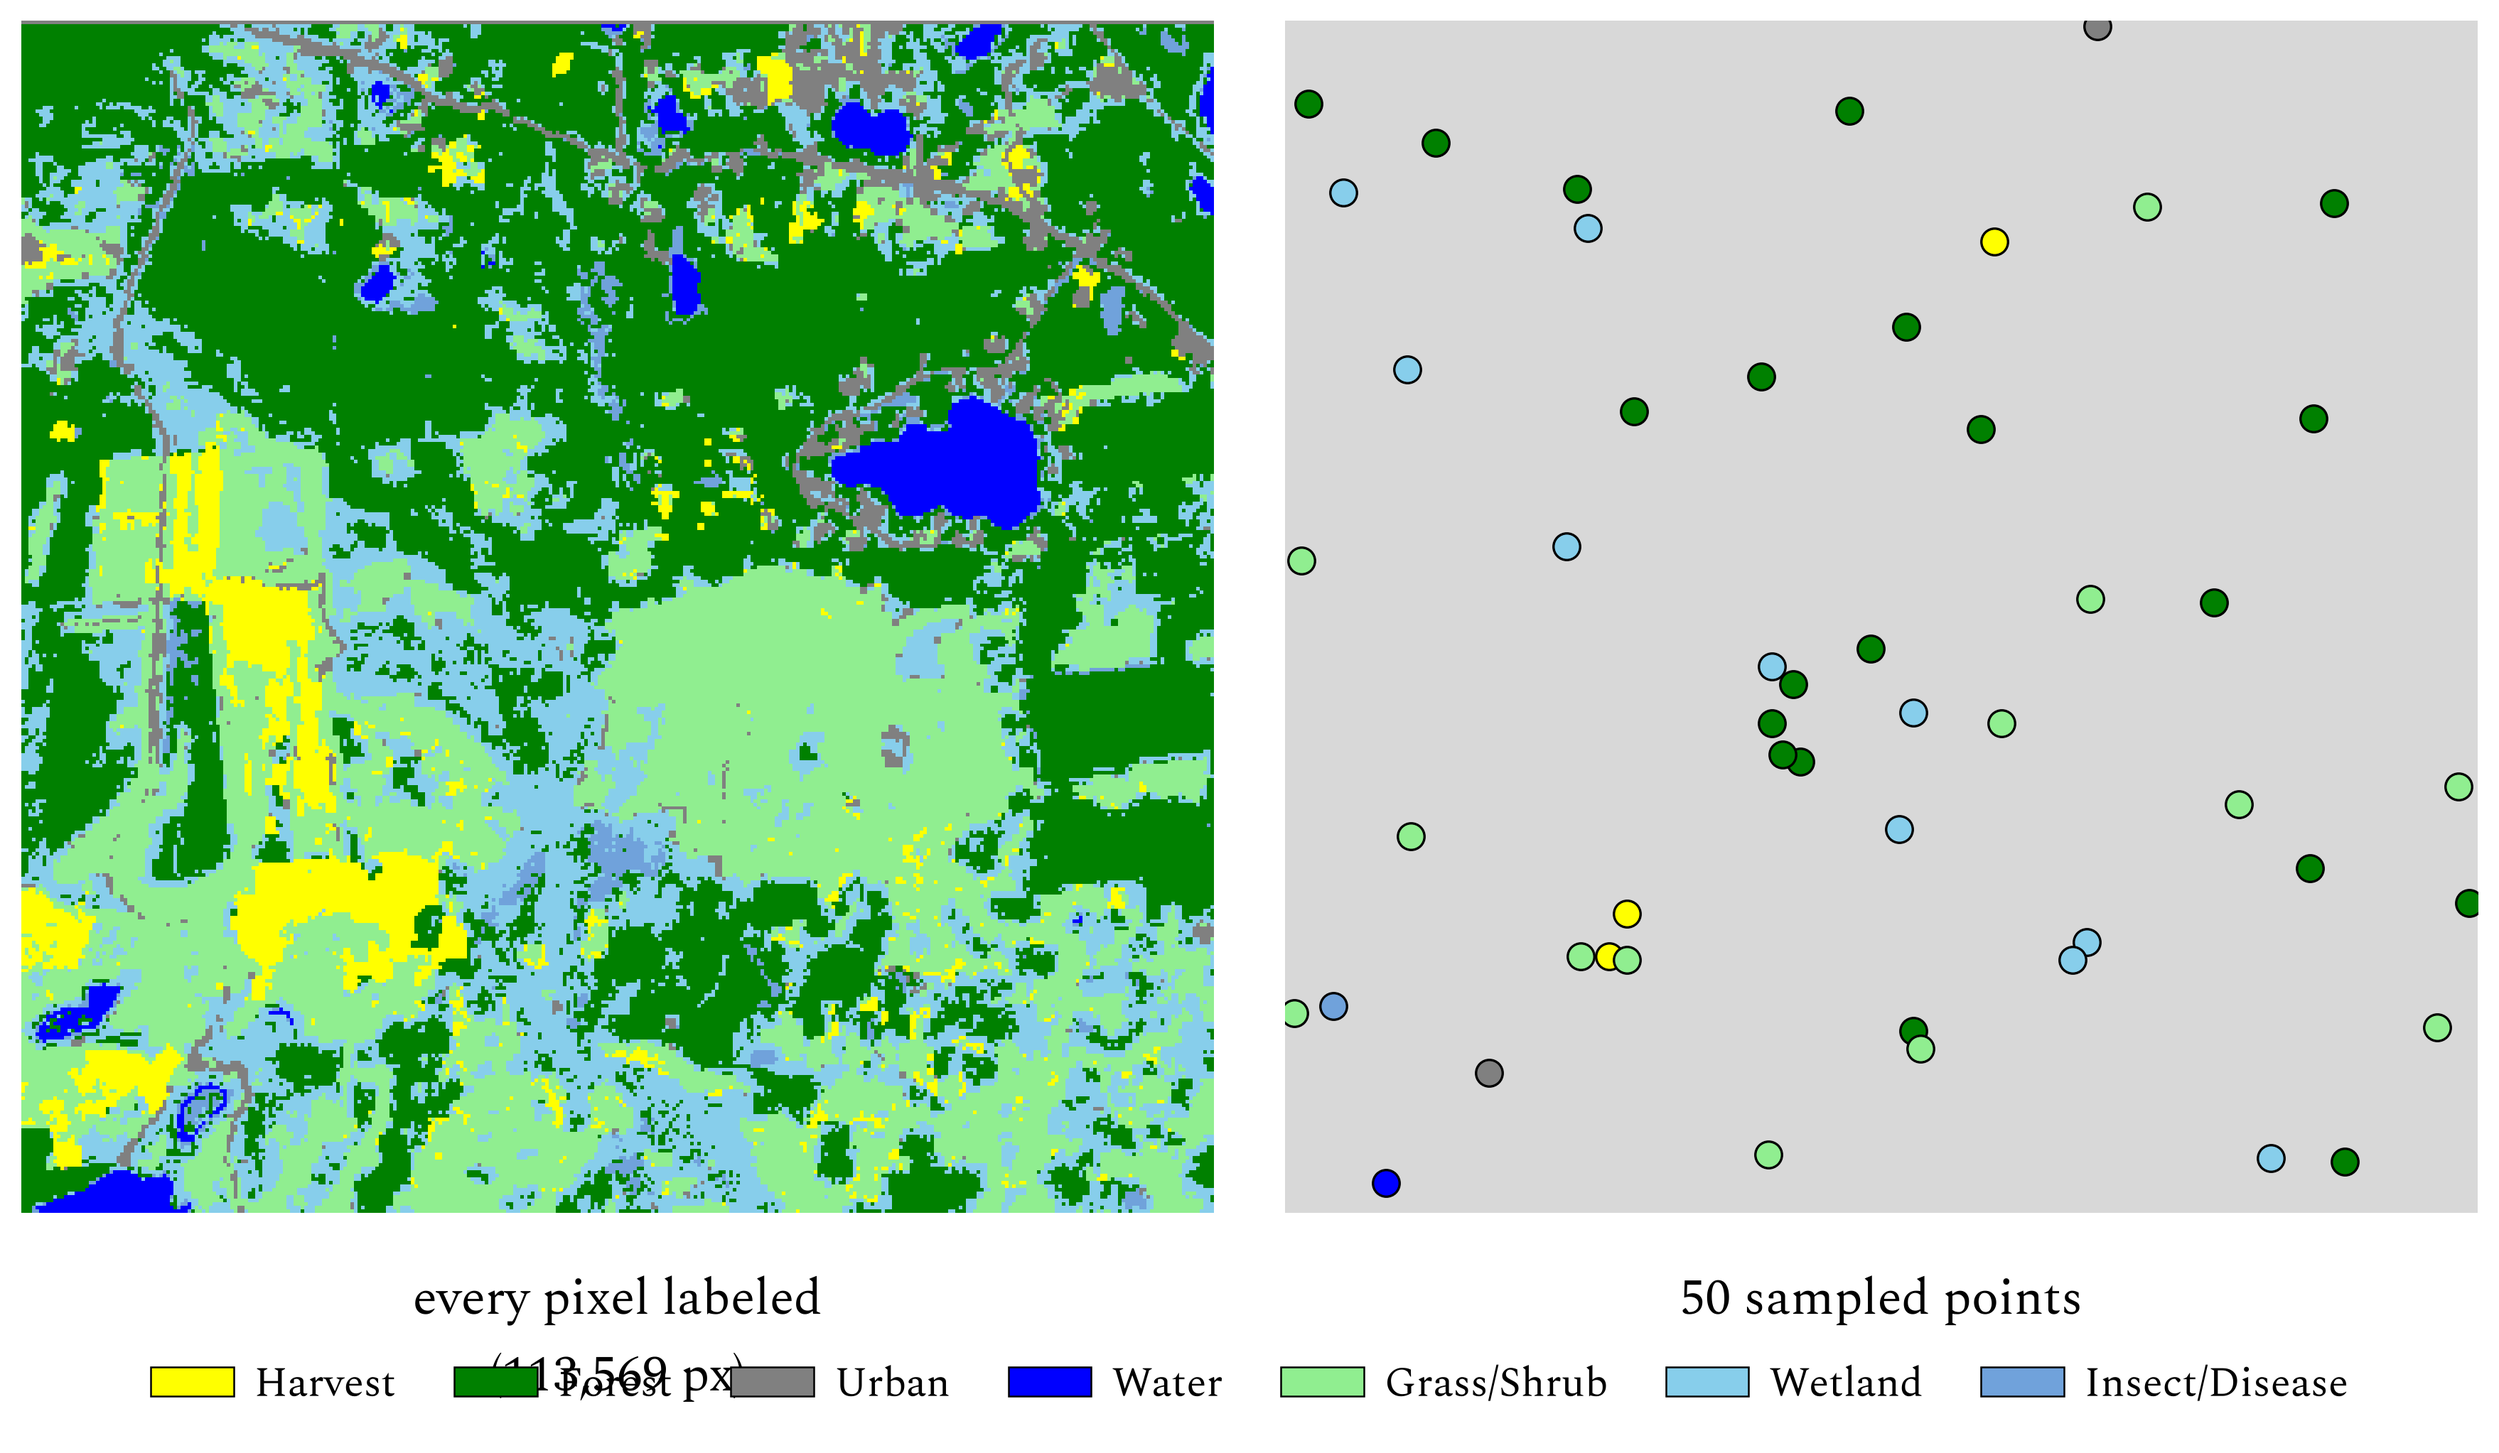
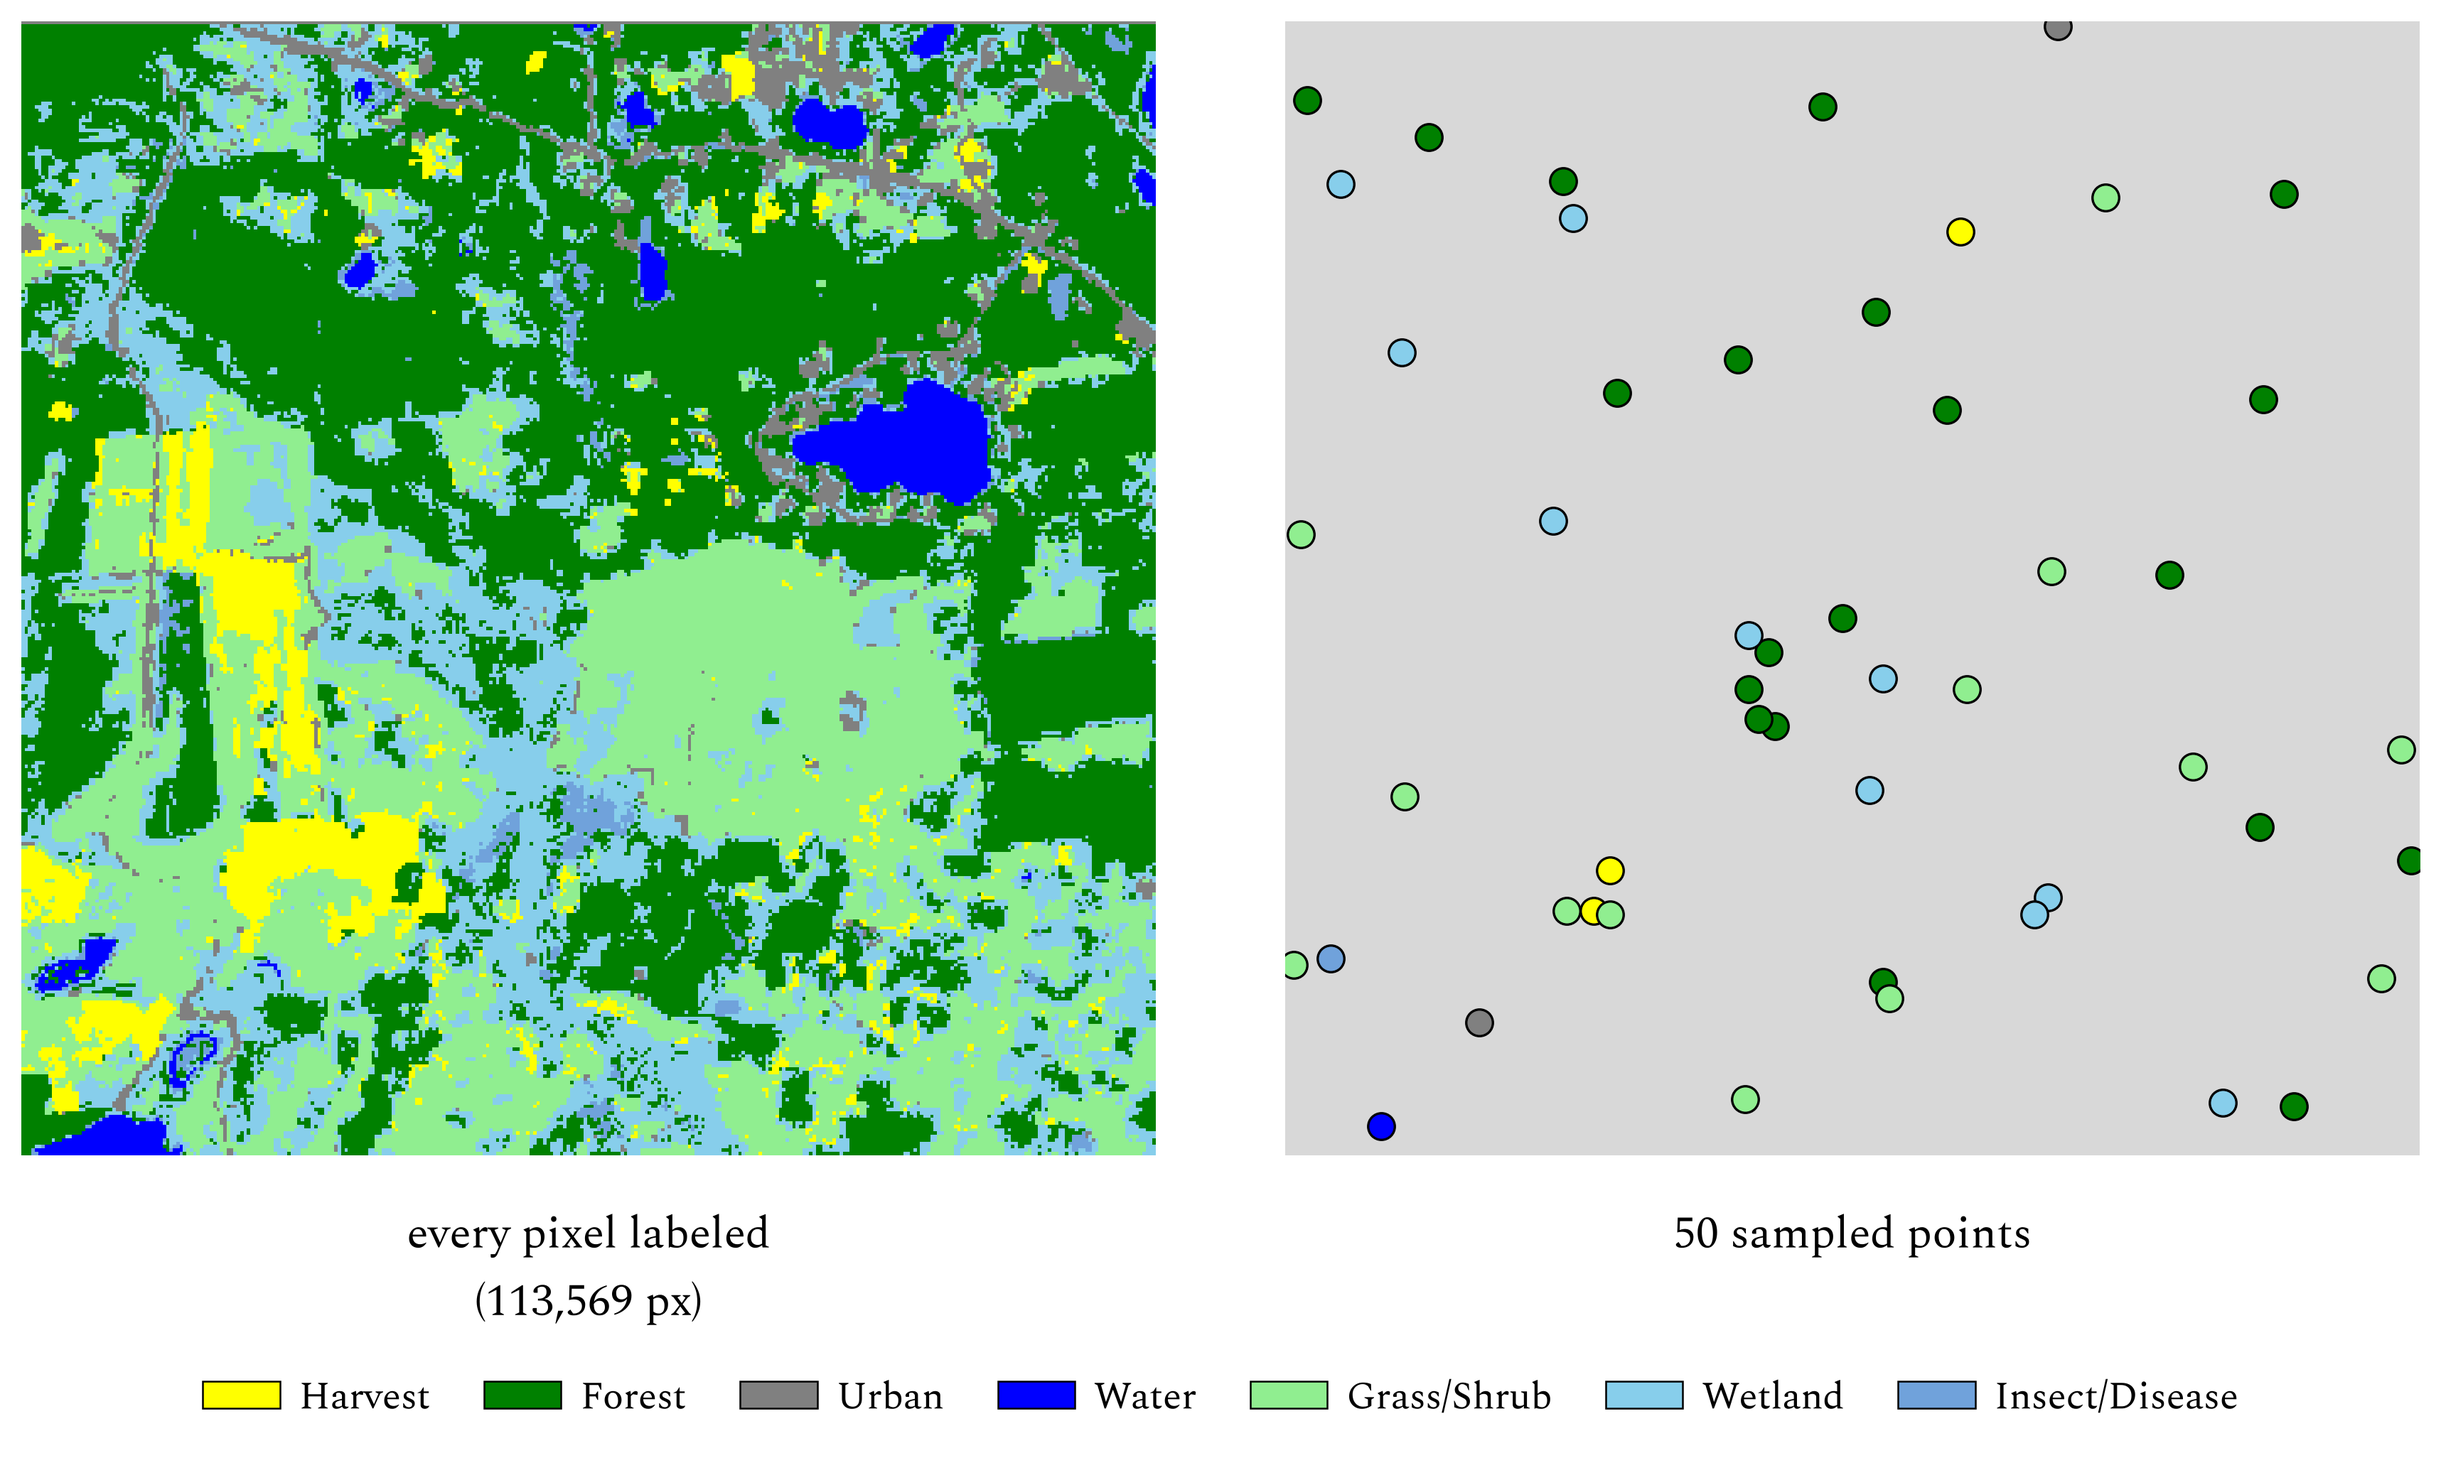
pres_05: fix caption/legend overlap under Spectral
Shrink the panel captions (17->15) and legend (14->13), add bottom margin so the
'(113,569 px)' caption no longer overlaps the legend row.

diff --git a/presentation/scripts/pres_05_census_vs_points.py b/presentation/scripts/pres_05_census_vs_points.py
@@ -131,7 +131,7 @@ def main():
                          "font.sans-serif": ["Helvetica", "Arial", "DejaVu Sans"], "font.size": 16})
     slide_font.use_spectral()
     fig, (axL, axR) = plt.subplots(1, 2, figsize=(12, 7))
-    fig.subplots_adjust(left=0.02, right=0.98, top=0.98, bottom=0.18, wspace=0.06)
+    fig.subplots_adjust(left=0.02, right=0.98, top=0.98, bottom=0.22, wspace=0.06)
 
     # left: full census, every pixel colored by class
     rgb = np.ones((H, W, 3))
@@ -140,7 +140,7 @@ def main():
     axL.imshow(rgb, interpolation="nearest")
     axL.set_axis_off()
     axL.text(0.5, -0.04, f"every pixel labeled\n({n_valid:,} px)", transform=axL.transAxes,
-             ha="center", va="top", fontsize=17)
+             ha="center", va="top", fontsize=15)
 
     # right: same cell in light grey, 50 sampled points colored by reference class
     grey = np.ones((H, W, 3))
@@ -151,13 +151,13 @@ def main():
         axR.plot(cc, r, marker="o", markersize=9, markerfacecolor=pal[c][1],
                  markeredgecolor="black", markeredgewidth=0.8, linestyle="none")
     axR.text(0.5, -0.04, f"{N_POINTS} sampled points", transform=axR.transAxes,
-             ha="center", va="top", fontsize=17)
+             ha="center", va="top", fontsize=15)
 
     # shared legend, classes present in the cell
     handles = [Patch(facecolor=pal[c][1], edgecolor="black", linewidth=0.6, label=NAMES[c])
                for c in present]
     fig.legend(handles=handles, loc="lower center", ncol=len(present), frameon=False,
-               fontsize=14, handletextpad=0.5, columnspacing=1.4, bbox_to_anchor=(0.5, 0.02))
+               fontsize=13, handletextpad=0.5, columnspacing=1.4, bbox_to_anchor=(0.5, 0.015))
 
     os.makedirs(OUT, exist_ok=True)
     fig.savefig(os.path.join(OUT, "pres_05_census_vs_points.png"), dpi=300, bbox_inches="tight")
